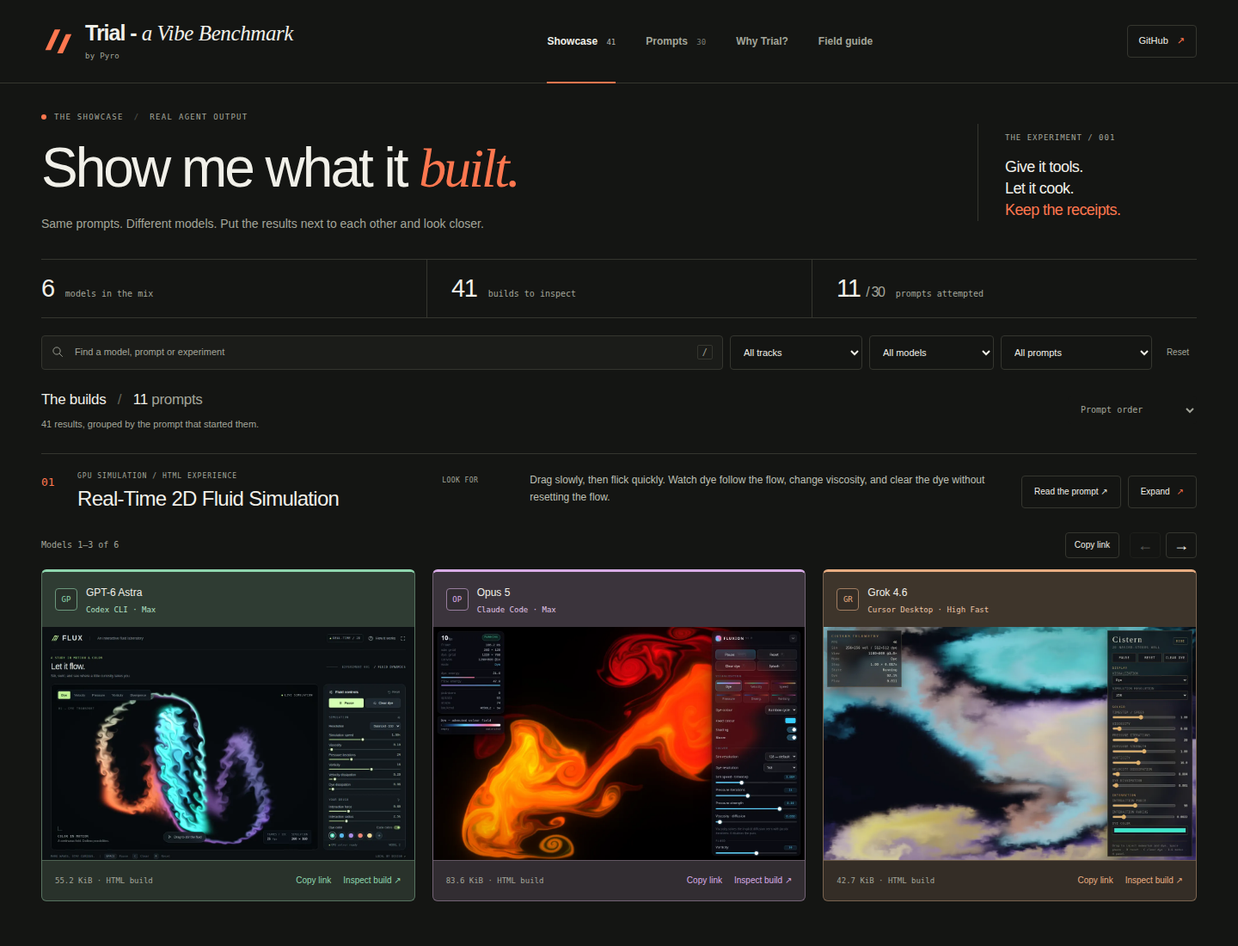
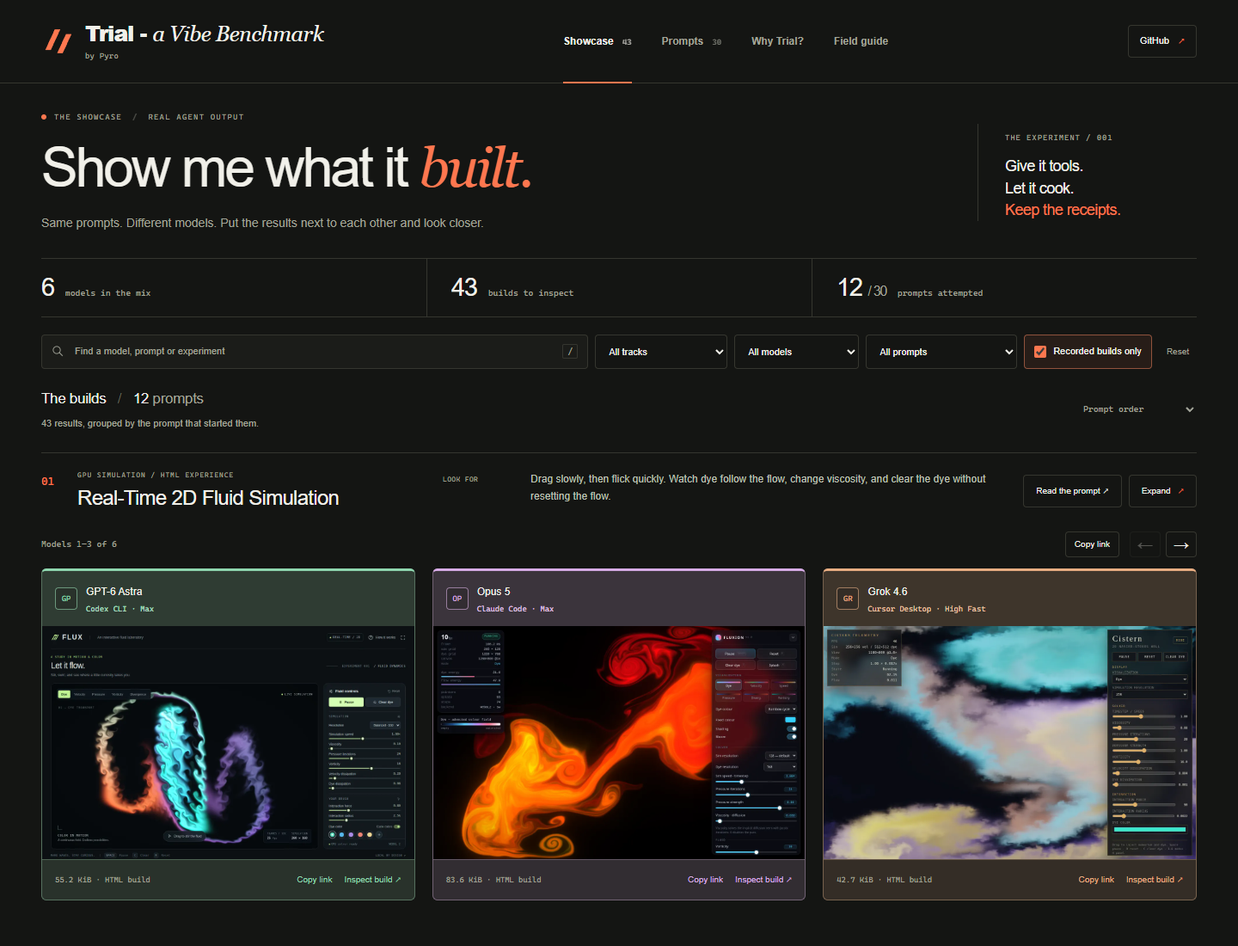
Hide missing build tiles by default

diff --git a/gallery/static/index.html b/gallery/static/index.html
@@ -24,7 +24,7 @@
       <label class="search"><svg viewBox="0 0 20 20" aria-hidden="true"><circle cx="8" cy="8" r="5.5"/><path d="m12 12 5 5"/></svg><input id="search" type="search" placeholder="Find a model, prompt or experiment" aria-label="Search models, tasks and tags"><kbd>/</kbd></label>
       <label class="select-wrap"><span class="sr-only">Track</span><select id="track-filter"><option value="all">All tracks</option><option value="html">HTML experiences</option><option value="real-apps">Real applications</option></select></label>
       <div id="run-filters" class="run-filters"><label><span class="sr-only">Model</span><select id="model-filter"><option value="all">All models</option></select></label><label class="task-select"><span class="sr-only">Task</span><select id="task-filter"><option value="all">All prompts</option></select></label><label class="status-select"><span class="sr-only">Status</span><select id="status-filter"><option value="all">Any status</option><option value="scored">Scored</option><option value="unscored">Unscored</option><option value="fail">Failed checks</option><option value="blocked">Blocked checks</option><option value="stale">Stale report</option></select></label></div>
-      <button id="clear-filters" class="button text-button">Reset</button>
+      <div class="filter-actions"><label id="recorded-only-filter" class="build-filter"><input id="recorded-only" type="checkbox" checked>Recorded builds only</label><button id="clear-filters" class="button text-button">Reset</button></div>
     </section>
     <section id="view-gallery" class="view"><div class="section-heading"><div><h2>The builds <span class="heading-dot">/</span> <span id="group-count">0</span> <span class="muted">prompts</span></h2><p><span id="result-count">0</span> results, grouped by the prompt that started them.</p></div><label class="sort"><span class="sr-only">Sort prompt groups</span><select id="sort"><option value="task">Prompt order</option><option value="recent">Recently updated</option><option value="score">Highest score</option></select></label></div><div id="cards" class="prompt-groups"></div><div id="empty-results" class="empty" hidden><span class="empty-icon">//</span><h2>The next experiment starts here.</h2><p>Give an agent a prompt. Let it build and test.<br>Bring back what it made.</p><code>results/model_name/run-001/index.html</code><div class="empty-actions"><button class="button primary" data-view="catalog">Choose a prompt ↗</button><button class="button" data-view="guide">Add your first build</button></div></div></section>
     <section id="view-catalog" class="view" hidden><div class="section-heading"><div><h2>The challenge set <span id="catalog-count" class="count">30</span></h2><p>One complete prompt. Tools from the start. Your move.</p></div></div><div id="catalog-grid" class="card-grid"></div></section>
@@ -58,7 +58,7 @@
     <div class="workspace-tools"><span id="connection-status" class="tiny">Connecting…</span><div><button id="refresh" class="button quiet" title="Reload results">↻ Refresh</button><a class="button quiet" href="/api/export.csv" download>Export CSV ↓</a></div></div>
   </main>
   <footer><div class="footer-inner"><span class="footer-brand">Trial - <em>a Vibe Benchmark</em><span class="footer-byline">by Pyro</span></span><span id="footer-status">30 prompts. Real tools. Actual builds.</span><a class="repo-footer" href="https://github.com/pyros-projects/Trial" target="_blank" rel="noopener noreferrer">View the repository ↗</a></div></footer>
-  <dialog id="category-viewer" class="category-viewer" aria-labelledby="category-title"><div class="category-bar"><span class="eyebrow">PROMPT COMPARISON</span><button id="close-category" class="button" aria-label="Close comparison">Close comparison <span aria-hidden="true">×</span></button></div><div id="category-content" class="category-content"></div></dialog>
+  <dialog id="category-viewer" class="category-viewer" aria-labelledby="category-title"><div class="category-bar"><span class="eyebrow">PROMPT COMPARISON</span><label class="build-filter"><input id="category-recorded-only" type="checkbox" checked>Recorded builds only</label><button id="close-category" class="button" aria-label="Close comparison">Close comparison <span aria-hidden="true">×</span></button></div><div id="category-content" class="category-content"></div></dialog>
   <dialog id="viewer" class="viewer"><div class="dialog-header"><div><div id="viewer-kicker" class="eyebrow"></div><h2 id="viewer-title"></h2></div><button id="close-viewer" class="icon-button" aria-label="Close result">×</button></div><div class="viewer-toolbar"><div class="tabs" role="tablist" aria-label="Result view"><button data-tab="preview" role="tab" aria-selected="true">Preview</button><button data-tab="evidence" role="tab" aria-selected="false">Checks &amp; notes</button><button data-tab="details" role="tab" aria-selected="false">Build details</button></div><div id="viewer-actions" class="viewer-actions"></div></div><div id="viewer-content" class="viewer-content"></div></dialog>
   <dialog id="prompt-dialog" class="prompt-dialog"><div class="dialog-header"><div><div class="eyebrow">THE COMPLETE PROMPT</div><h2 id="prompt-title"></h2></div><button id="close-prompt" class="icon-button" aria-label="Close prompt">×</button></div><div class="prompt-actions"><button id="copy-prompt" class="button primary">Copy prompt</button><a id="download-prompt" class="button" download>Open prompt file ↗</a><span id="copy-status" class="tiny" role="status"></span></div><pre id="prompt-content" tabindex="0"></pre></dialog>
   <div id="toast" class="toast" role="status" hidden></div>

diff --git a/gallery/static/app.js b/gallery/static/app.js
@@ -53,8 +53,12 @@
   }
   let saved={};
   try {saved=JSON.parse(localStorage.getItem(storageKey)||'{}')||{};} catch {saved={};}
+  function setRecordedOnly(checked) {
+    $('#recorded-only').checked=checked;$('#category-recorded-only').checked=checked;
+  }
+  setRecordedOnly(saved['recorded-only']!==false);
   function saveSettings() {
-    const settings={view:state.view};filterIDs.forEach(id=>settings[id]=$('#'+id).value);
+    const settings={view:state.view,'recorded-only':$('#recorded-only').checked};filterIDs.forEach(id=>settings[id]=$('#'+id).value);
     try {localStorage.setItem(storageKey,JSON.stringify(settings));} catch { /* Browser storage can be disabled. */ }
   }
   function toast(text) {
@@ -144,6 +148,7 @@
     });
     $('#current-section').textContent=headings[view][0];$('#hero-title').innerHTML=headings[view][1];$('#hero-description').textContent=headings[view][2];
     $('#filters').hidden=view==='guide'||view==='why';$('#run-filters').hidden=view==='catalog';
+    $('#recorded-only-filter').hidden=view!=='gallery';
     $('.stats').hidden=view==='why';$('.workspace-tools').hidden=view==='why';
     render();saveSettings();
   }
@@ -190,7 +195,7 @@
     const first=runs[0];const known=state.data.catalog.find(task=>task.id===key);
     const selectedModel=allModels?'all':$('#model-filter').value;
     const models=[...new Map(state.data.results.filter(row=>selectedModel==='all'||row.model_key===selectedModel).map(row=>[row.model_key,row])).values()].sort(compareModels);
-    const comparisonModels=known?models:models.filter(model=>runs.some(row=>row.model_key===model.model_key));
+    const comparisonModels=known&&!$('#recorded-only').checked?models:models.filter(model=>runs.some(row=>row.model_key===model.model_key));
     const lookFor=known?.look_for;
     const guidance=typeof lookFor==='string'&&lookFor.trim()?`<dl class="prompt-guide"><div><dt>Look for</dt><dd>${escape(lookFor)}</dd></div></dl>`:'';
     const columns=comparisonModels.map(model=>{
@@ -484,11 +489,14 @@
   });
   filterIDs.forEach(id=>$('#'+id).addEventListener(id==='search'?'input':'change',()=>{render();saveSettings();}));
   document.addEventListener('change',event=>{
+    if(event.target.id==='recorded-only'||event.target.id==='category-recorded-only'){
+      setRecordedOnly(event.target.checked);if(state.data)render();saveSettings();
+    }
     if(event.target.id==='viewport-size')resizeFrame();
     if(event.target.id==='live-model')switchLiveModel(event.target.value);
   });
   $('#refresh').addEventListener('click',loadData);
-  $('#clear-filters').addEventListener('click',()=>{for(const id of filterIDs)$('#'+id).value=id==='search'?'':id==='sort'?'task':'all';render();saveSettings();});
+  $('#clear-filters').addEventListener('click',()=>{for(const id of filterIDs)$('#'+id).value=id==='search'?'':id==='sort'?'task':'all';setRecordedOnly(true);render();saveSettings();});
   $('#close-viewer').addEventListener('click',closeViewer);
   $('#close-category').addEventListener('click',()=>closeCategory());
   $('#category-viewer').addEventListener('cancel',event=>{event.preventDefault();closeCategory();});

diff --git a/gallery/static/styles.css b/gallery/static/styles.css
@@ -142,6 +142,18 @@ body[data-section="why"] .hero-copy>p{max-width:640px}
 @media(max-width:580px){.brand{font-size:20px;gap:9px}.brand-mark{width:26px;height:34px}.brand-subtitle{font-size:8px}}
 
 /* Keep screenshots readable as the model roster grows. */
+.filter-actions{display:flex;align-items:center;justify-content:space-between;gap:8px}
+.build-filter{display:inline-flex;align-items:center;gap:8px;min-height:40px;padding:8px 11px;border:1px solid var(--line);border-radius:4px;font-size:11px;color:var(--muted);cursor:pointer;white-space:nowrap}
+.build-filter input{width:14px;height:14px;margin:0;accent-color:var(--accent);cursor:pointer}
+.build-filter:has(:checked){border-color:color-mix(in srgb,var(--accent) 45%,var(--line));background:var(--accent-soft);color:var(--text)}
+.build-filter:focus-within{outline:1px solid var(--accent);outline-offset:3px}
+.category-bar>.build-filter{margin-left:auto}
+@media(max-width:580px){
+  .filters>.filter-actions{grid-column:1/-1}
+  .category-bar{flex-wrap:wrap}
+  .category-bar>.build-filter{order:3;flex-basis:100%;min-height:34px;font-size:10px}
+  .category-bar>#close-category{margin-left:auto}
+}
 .group-builds{--visible-models:min(var(--columns,1),3);--comparison-gap:20px;grid-template-columns:none;grid-auto-flow:column;grid-auto-columns:calc((100% - (var(--visible-models) - 1)*var(--comparison-gap))/var(--visible-models));gap:var(--comparison-gap);overflow-x:auto;padding:3px 0 10px;scroll-snap-type:x mandatory;overscroll-behavior-x:contain;scrollbar-width:thin;scrollbar-color:var(--line) transparent}
 .group-builds:focus-visible{outline:1px solid var(--accent);outline-offset:4px}.group-builds>.model-column{scroll-snap-align:start;min-width:0}
 .comparison-toolbar{display:flex;align-items:center;justify-content:space-between;gap:12px;min-height:32px;margin-bottom:9px}.comparison-range{font:10px/1.5 var(--mono);color:var(--muted)}

diff --git a/tests/test_browser_single.py b/tests/test_browser_single.py
@@ -75,6 +75,16 @@ class BrowserTests(BrowserEnvironment):
         self.model_settings(json.dumps({'models': models}))
         return [model['key'] for model in models]
 
+    def sparse_comparison_fixture(self):
+        keys = self.comparison_fixture()
+        (self.results / keys[3] / '01-fluid-simulation-main/index.html').unlink()
+        for model, run_id in [(keys[3], self.state.catalog[1]['id']),
+                              (keys[2], '01-fluid-simulation-extra')]:
+            run = self.results / model / run_id
+            run.mkdir()
+            (run / 'index.html').write_text('<!doctype html><title>Additional comparison fixture</title>', encoding='utf-8')
+        return keys
+
     def public_export(self):
         from http.server import SimpleHTTPRequestHandler
         from fnmatch import fnmatch
@@ -425,6 +435,7 @@ window.probe=async origin=>{
             run.mkdir()
             (run / 'index.html').write_text('<!doctype html><title>Additional comparison fixture</title><h1>Additional comparison fixture</h1>', encoding='utf-8')
         self.navigate_direct()
+        self.page.locator('#recorded-only').uncheck()
         group = self.page.locator('#cards .prompt-group[data-task="01-fluid-simulation"]')
         expect(group.locator('.model-column')).to_have_count(5)
         expect(group.locator('.missing-build')).to_have_count(1)
@@ -456,6 +467,167 @@ window.probe=async origin=>{
         self.page.evaluate("hash=>location.hash=hash", '#play/' + keys[3] + '/' + self.state.catalog[1]['id'])
         expect(category).not_to_be_visible()
         expect(self.page.frame_locator('#artifact-frame').locator('h1')).to_have_text('Additional comparison fixture')
+        self.assertEqual(self.errors, [])
+
+    def test_recorded_only_defaults_for_new_and_existing_saved_settings(self):
+        from playwright.sync_api import expect
+        keys = self.sparse_comparison_fixture()
+        self.navigate_direct()
+        for previous_settings in [None, {'view': 'gallery', 'sort': 'task'}]:
+            with self.subTest(previous_settings=previous_settings):
+                if previous_settings is not None:
+                    self.page.evaluate("settings=>localStorage.setItem('trial-by-pyro-ui-v1',JSON.stringify(settings))", previous_settings)
+                    self.page.reload()
+                expect(self.page.locator('#recorded-only')).to_be_checked()
+                expect(self.page.locator('#recorded-only')).to_have_accessible_name('Recorded builds only')
+                expect(self.page.locator('#category-recorded-only')).to_be_checked()
+                group = self.page.locator('#cards .prompt-group[data-task="01-fluid-simulation"]')
+                expect(group.locator('.model-column')).to_have_count(4)
+                self.assertEqual(group.locator('.model-column').evaluate_all('nodes=>nodes.map(node=>node.dataset.model)'), keys[:3] + keys[4:])
+                expect(group.locator('.missing-build')).to_have_count(0)
+                expect(group.locator('.run-card')).to_have_count(5)
+                expect(group.locator(f'.model-column[data-model="{keys[2]}"] .run-card')).to_have_count(2)
+        self.assertEqual(self.errors, [])
+
+    def test_recorded_only_toggle_search_empty_state_persistence_and_reset(self):
+        from playwright.sync_api import expect
+        keys = self.sparse_comparison_fixture()
+        self.navigate_direct()
+        checkbox = self.page.locator('#recorded-only')
+        group = self.page.locator('#cards .prompt-group[data-task="01-fluid-simulation"]')
+        checkbox.uncheck()
+        expect(group.locator('.model-column')).to_have_count(5)
+        expect(group.locator('.missing-build')).to_have_count(1)
+        expect(group.locator('.run-card')).to_have_count(5)
+        self.assertEqual(group.locator('.model-column').evaluate_all('nodes=>nodes.map(node=>node.dataset.model)'), keys)
+        self.assertIs(self.page.evaluate("JSON.parse(localStorage.getItem('trial-by-pyro-ui-v1'))['recorded-only']"), False)
+        self.page.reload()
+        expect(checkbox).not_to_be_checked()
+        expect(group.locator('.missing-build')).to_have_count(1)
+        self.page.locator('#search').fill('extra')
+        expect(group.locator('.run-card')).to_have_count(1)
+        expect(group.locator('.missing-build').filter(has_text='No build recorded')).to_have_count(1)
+        expect(group.locator('.missing-build').filter(has_text='No matching build')).to_have_count(3)
+        checkbox.check()
+        expect(group.locator('.model-column')).to_have_count(1)
+        expect(group.locator('.model-column')).to_have_attribute('data-model', keys[2])
+        expect(group.locator('.missing-build')).to_have_count(0)
+        expect(group.locator('.run-card')).to_have_count(1)
+        self.page.reload()
+        expect(checkbox).to_be_checked()
+        expect(self.page.locator('#search')).to_have_value('extra')
+        expect(group.locator('.model-column')).to_have_count(1)
+        self.page.locator('#search').fill('no recorded fixture matches this query')
+        expect(self.page.locator('#cards .prompt-group')).to_have_count(0)
+        expect(self.page.locator('#empty-results')).to_be_visible()
+        checkbox.uncheck()
+        expect(self.page.locator('#cards .model-column')).to_have_count(0)
+        expect(self.page.locator('#empty-results')).to_be_visible()
+        self.page.locator('#clear-filters').click()
+        expect(checkbox).to_be_checked()
+        expect(self.page.locator('#category-recorded-only')).to_be_checked()
+        expect(self.page.locator('#search')).to_have_value('')
+        expect(group.locator('.model-column')).to_have_count(4)
+        expect(group.locator('.run-card')).to_have_count(5)
+        expect(self.page.locator('#cards .missing-build')).to_have_count(0)
+        expect(self.page.locator('#empty-results')).not_to_be_visible()
+        self.assertIs(self.page.evaluate("JSON.parse(localStorage.getItem('trial-by-pyro-ui-v1'))['recorded-only']"), True)
+        self.page.reload()
+        expect(checkbox).to_be_checked()
+        expect(group.locator('.model-column')).to_have_count(4)
+        self.assertEqual(self.errors, [])
+
+    def test_recorded_only_expanded_toggle_syncs_and_survives_close_on_mobile(self):
+        from playwright.sync_api import expect
+        self.sparse_comparison_fixture()
+        self.page.set_viewport_size({'width': 390, 'height': 844})
+        self.navigate_direct()
+        group = self.page.locator('#cards .prompt-group[data-task="01-fluid-simulation"]')
+        trigger = group.locator('[data-expand-task]')
+        trigger.click()
+        category = self.page.locator('#category-viewer')
+        checkbox = self.page.locator('#category-recorded-only')
+        expect(checkbox).to_be_checked()
+        expect(checkbox).to_have_accessible_name('Recorded builds only')
+        expect(checkbox).to_be_in_viewport()
+        expect(category.locator('.model-column')).to_have_count(4)
+        checkbox.uncheck()
+        expect(category.locator('.model-column')).to_have_count(5)
+        expect(category.locator('.run-card')).to_have_count(5)
+        expect(category.locator('.missing-build')).to_have_count(1)
+        expect(self.page.locator('#recorded-only')).not_to_be_checked()
+        expect(group.locator('.model-column')).to_have_count(5)
+        self.assertTrue(category.evaluate('node=>node.scrollWidth<=innerWidth'))
+        self.page.locator('#close-category').click()
+        expect(category).not_to_be_visible()
+        expect(trigger).to_be_focused()
+        expect(self.page.locator('#recorded-only')).not_to_be_checked()
+        self.page.reload()
+        expect(self.page.locator('#recorded-only')).not_to_be_checked()
+        trigger.click()
+        expect(checkbox).not_to_be_checked()
+        expect(category.locator('.model-column')).to_have_count(5)
+        checkbox.check()
+        expect(category.locator('.model-column')).to_have_count(4)
+        expect(category.locator('.missing-build')).to_have_count(0)
+        expect(category.locator('.run-card')).to_have_count(5)
+        expect(self.page.locator('#recorded-only')).to_be_checked()
+        self.page.locator('#close-category').click()
+        expect(trigger).to_be_focused()
+        expect(group.locator('.model-column')).to_have_count(4)
+        self.page.reload()
+        expect(self.page.locator('#recorded-only')).to_be_checked()
+        expect(group.locator('.missing-build')).to_have_count(0)
+        self.assertEqual(self.errors, [])
+
+    def test_recorded_only_public_comparison_share_honors_preference_and_ignores_filters(self):
+        from playwright.sync_api import expect
+        keys = self.sparse_comparison_fixture()
+        task = '01-fluid-simulation'
+        origin, data = self.public_export()
+        share = origin + data['comparison_urls'][task]
+        self.page.goto(origin)
+        expect(self.page.locator('#recorded-only')).to_be_checked()
+        self.page.locator('#recorded-only').uncheck()
+        self.page.locator('#model-filter').select_option(keys[3])
+        self.page.locator('#search').fill('no matching fixture')
+        expect(self.page.locator('#cards .run-card')).to_have_count(0)
+        self.page.goto(share)
+        category = self.page.locator('#category-viewer')
+        checkbox = self.page.locator('#category-recorded-only')
+        expect(category).to_be_visible()
+        expect(checkbox).not_to_be_checked()
+        expect(category.locator('.model-column')).to_have_count(5)
+        self.assertEqual(category.locator('.model-column').evaluate_all('nodes=>nodes.map(node=>node.dataset.model)'), keys)
+        expect(category.locator('.run-card')).to_have_count(5)
+        expect(category.locator('.missing-build')).to_have_count(1)
+        checkbox.check()
+        expect(category.locator('.model-column')).to_have_count(4)
+        self.assertEqual(category.locator('.model-column').evaluate_all('nodes=>nodes.map(node=>node.dataset.model)'), keys[:3] + keys[4:])
+        expect(category.locator('.run-card')).to_have_count(5)
+        expect(category.locator('.missing-build')).to_have_count(0)
+        self.page.reload()
+        expect(category).to_be_visible()
+        expect(checkbox).to_be_checked()
+        expect(category.locator('.model-column')).to_have_count(4)
+        expect(self.page.locator('#model-filter')).to_have_value(keys[3])
+        expect(self.page.locator('#search')).to_have_value('no matching fixture')
+        self.page.locator('#close-category').click()
+        expect(self.page.locator('#recorded-only')).to_be_checked()
+        expect(self.page.locator('#cards .run-card')).to_have_count(0)
+        expect(self.page.locator('#empty-results')).to_be_visible()
+        self.page.goto(share)
+        expect(category).to_be_visible()
+        expect(checkbox).to_be_checked()
+        expect(category.locator('.model-column')).to_have_count(4)
+        checkbox.uncheck()
+        self.page.goto(share)
+        expect(category).to_be_visible()
+        expect(checkbox).not_to_be_checked()
+        expect(self.page.locator('#recorded-only')).not_to_be_checked()
+        expect(category.locator('.model-column')).to_have_count(5)
+        expect(category.locator('.run-card')).to_have_count(5)
+        expect(category.locator('.missing-build')).to_have_count(1)
         self.assertEqual(self.errors, [])
 
     def test_category_share_copies_normal_and_expanded_local_links(self):
@@ -1089,6 +1261,7 @@ quantization_url = 'https://models.example/quant'
         other=self.results/'Second model'/'01-fluid-simulation-002';other.mkdir(parents=True)
         (other/'index.html').write_text('<!doctype html><title>Second model fixture</title>')
         self.navigate_direct()
+        self.page.locator('#recorded-only').uncheck()
         expect(self.page.locator('#cards .prompt-group')).to_have_count(2)
         fluid=self.page.locator('.prompt-group[data-task="01-fluid-simulation"]')
         expect(fluid.locator('.run-card')).to_have_count(2)

diff --git a/docs/VERIFICATION.md b/docs/VERIFICATION.md
@@ -2,6 +2,14 @@
 
 These checks validate the package and gallery, not implementations or model performance on the thirty challenges.
 
+## Recorded builds only: 2026-09-08
+
+The showcase and expanded comparison now share a **Recorded builds only** checkbox, enabled by default. It removes empty model columns before layout, including both missing submissions and placeholders caused by other filters. Existing builds, repeated attempts, and configured model order remain intact. The preference is saved in the existing browser settings; older settings default to enabled, and Reset restores that default. Shared comparisons honor the preference while retaining their independent model and search selection.
+
+All **seven focused Windows Chromium tests** passed: four new preference tests, two existing placeholder tests, and the responsive model-comparison test. Coverage includes both placeholder types, duplicates, search and empty states, reload persistence, Reset, synchronization between controls, category close/focus behavior, and real exported comparison links with saved filters. JavaScript syntax and whitespace checks passed. The final layout was also inspected against the actual 43-build export at **1440, 768, 390, and 320 pixels**, including both controls and horizontal overflow checks. The [gallery preview](gallery-results-preview.png) shows the new filter.
+
+Production deployment **`6a9ff401a0f119ccb4da974a`** publishes **225 files totaling 7,972,939 bytes (7.60 MiB)**. The published HTML, JavaScript, and stylesheet match the reviewed source hashes. Live Chromium checks passed for default visibility, toggling, persistence, Reset, expanded and shared comparisons, search, empty states, and responsive layouts, with no uncaught errors. This presentation update retains the existing 43-build, twelve-prompt collection.
+
 ## Opus lensing and Astra rhythm game: 2026-09-08
 
 The collection contains **43 HTML builds across twelve prompts and six models**: Astra 12, Opus 5, Grok 10, GLM 5, Gemini 8, and Qwen 3. New submissions are Opus's `05-black-hole-lensing` and Astra's `12-rhythm-bullet-hell`. All **132 original files totaling 24,670,034 bytes** remain unchanged. The two top-level thumbnails are exact copies of the supplied `22-final-high-quality.png` and `24-final-desktop-gameplay.png`, inspected before publication.

diff --git a/docs/results.md b/docs/results.md
@@ -152,7 +152,9 @@ The local gallery, a separate port, and an iframe do not provide security isolat
 
 ## Compare results
 
-Each prompt keeps models in the configured order, with three columns above 1100 pixels, two from 581–1100 pixels, and one at 580 pixels or below. The arrows move one model at a time; the range label shows your position in the full lineup. Native horizontal scrolling and touch swipes work too. Focus the comparison row to use Left/Right or Home/End. Missing submissions retain their labeled place, and repeated attempts stay together in one model column.
+**Recorded builds only** is enabled by default. It hides empty model columns, including missing submissions and builds excluded by other filters. Turn it off to show the labeled placeholders. The control is available in the showcase filters and the expanded comparison bar; both share one preference saved in your browser. **Reset** restores the default. Shared comparison links honor this preference while showing all submitted models independently of search, model, and task filters.
+
+Each prompt keeps visible models in the configured order, with three columns above 1100 pixels, two from 581–1100 pixels, and one at 580 pixels or below. The arrows move one model at a time; the range label counts the visible lineup. Native horizontal scrolling and touch swipes work too. Focus the comparison row to use Left/Right or Home/End. Repeated attempts stay together in one model column.
 
 Choose **Expand** to see every entry for one prompt in a full-screen grid. Models flow into as many rows as needed, with three columns on desktop, two from 581–1100 pixels, and one on mobile. Scroll vertically to reach later rows; the expanded view has no horizontal paging. Read the prompt, inspect builds, open live apps, or copy implementation links from there. Closing a nested viewer returns to the comparison; closing the comparison restores the main page's filters, position, and focus. Shared implementation URLs continue to open the selected app directly.
 
